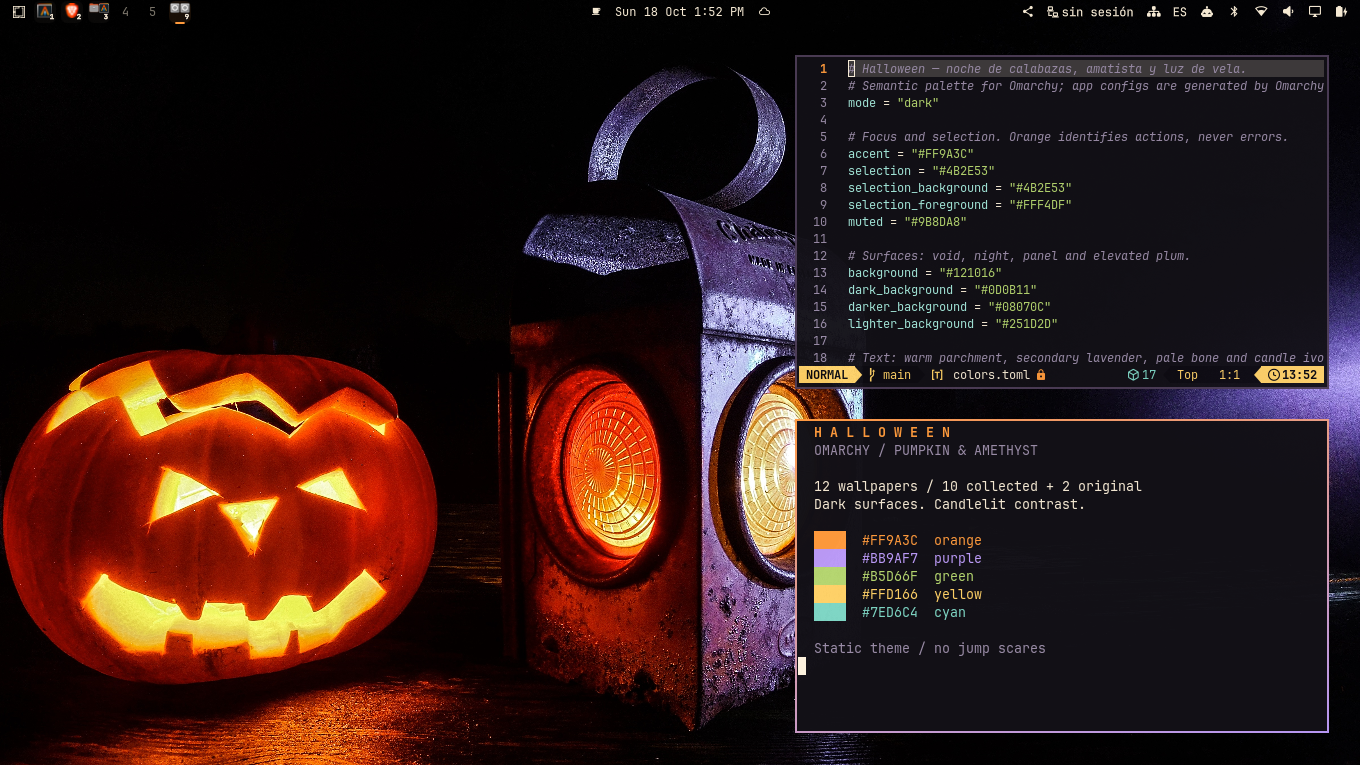
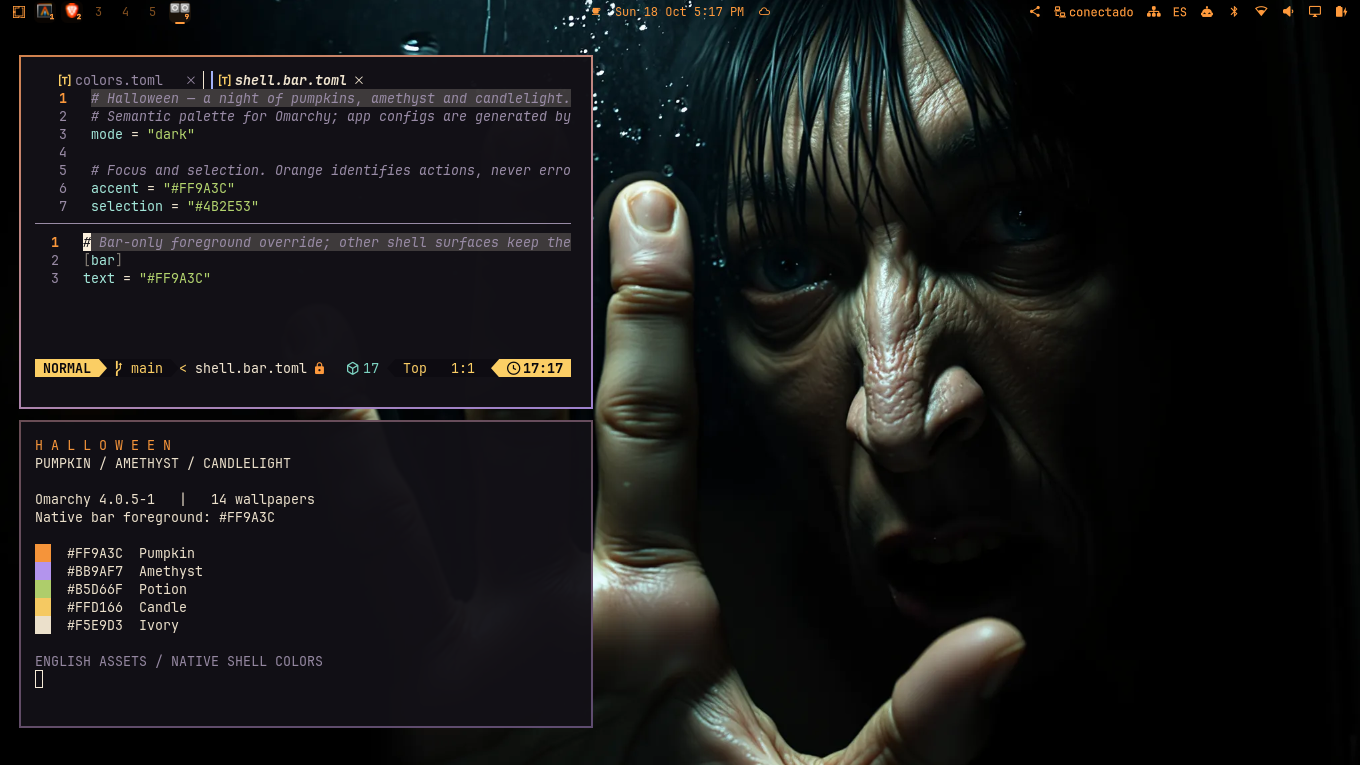
Refresh desktop previews with the orange bar and new horror wallpaper

diff --git a/README.md b/README.md
@@ -2,9 +2,9 @@
 
 A dark Halloween theme: pumpkin orange, amethyst, ivory and potion green on near-black surfaces. **14 wallpapers: 10 downloaded images with redistributable licenses, 2 original 4K vector illustrations and 2 AI-generated, photographic-style horror images at their native 2048 × 1152 resolution.**
 
-![Halloween in a real Omarchy session: terminal, Neovim and Pumpkin and Lantern wallpaper](preview.png)
+![Updated Halloween desktop: orange bar, Foot, Neovim and Don't Look at the Glass wallpaper](preview.png)
 
-An original screenshot from the initial static release, preserved without compositing or private data; its terminal shows that release's original twelve-wallpaper count. [Second screenshot featuring the original manor artwork](previews/desktop-mansion.png) · [Catalog WebP, 1200 × 675](previews/halloween.webp).
+Updated real desktop capture with the **pumpkin-orange transparent bar**, **14-wallpaper collection** and **Don't Look at the Glass** background. The terminal and Neovim are real application windows, not a montage. The wallpaper is fictional AI-generated artwork, not a photograph of a real person. [Earlier screenshot with Raven Manor](previews/desktop-mansion.png) · [Matching catalog WebP, 1200 × 675](previews/halloween.webp).
 
 ## Design and colors
 
@@ -198,7 +198,7 @@ According to the site's [“Adding your theme” instructions](https://github.co
 - That screenshot converted to WebP at `assets/themes/halloween.webp`, targeting **1200 × 675** and approximately **under 100 KB**, without upscaling a small screenshot.
 - A `<figure class="themes__theme">` block in **`themes/index.html`**, in alphabetical order. Both image and title must link to `https://github.com/PuroDelphi/omarchy-theme-halloween`.
 
-The site generates its data from that HTML: do not edit `src/data/themes.json` as the submission source. A PR without a screenshot cannot be merged. `previews/halloween.webp` is the real screenshot prepared for this submission: **1200 × 675, 91,640 bytes**. The separate artistic preview must not be confused with the screenshot.
+The site generates its data from that HTML: do not edit `src/data/themes.json` as the submission source. A PR without a screenshot cannot be merged. `previews/halloween.webp` is the refreshed real screenshot prepared for this submission: **1200 × 675, quality 80, 50,808 bytes**. The separate artistic preview must not be confused with the screenshot.
 
 ### Marketplace: a separate registration route
 
@@ -227,7 +227,7 @@ Reference environment: **Omarchy 4.0.5-1**, as reported by the installed package
 - During the initial installation: **19 configurations** generated by the installed templates, without unresolved variables; JSON/TOML outputs parsed successfully.
 - `foot --check-config` on its generated configuration: exit **0**.
 - Visual review of the two vector illustrations, the two AI-generated horror images and the **fourteen-wallpaper** contact sheet.
-- Installation from the public URL and actual application in Hyprland: **Theme Halloween**, with **Pumpkin and Lantern** active; `hyprctl configerrors` reported no errors.
+- Installation from the public URL and actual application in Hyprland: **Theme Halloween**; `hyprctl configerrors` reported no errors. The refreshed primary screenshot shows **Don't Look at the Glass**, the orange transparent bar, Neovim editing the native bar override, and a Foot terminal displaying the installed package version, fourteen-wallpaper count and real palette values.
 - Real visual inspection of **Foot, Neovim, borders and wallpaper**, with two desktop screenshots. Not all other applications have been visually tested.
 - Screenshots came from the native **1366 × 768** monitor, minimally cropped by 3 pixels on each side and 1/2 pixels at the top/bottom to **1360 × 765**, without upscaling or distortion. The WebP was reduced to **1200 × 675**.
 - English filename migration, local Markdown link targets and AI-image provenance hashes: checked. The translated renderer generated scene 11 successfully at 1920 × 1080.

diff --git a/SOURCES.md b/SOURCES.md
@@ -41,7 +41,7 @@ Files **11 and 12** are generated with [`tools/render-wallpapers.py`](tools/rend
 
 - **`previews/theme-art-preview.*` and `previews/originals-contact-sheet.*`**: only vector illustrations **11 and 12** and the palette; CC0 as described in [`ARTWORK-LICENSE`](ARTWORK-LICENSE). They are labeled as artistic previews, not real screenshots.
 - **`previews/contact-sheet.png`**: a collection of all fourteen wallpapers, with reduced thumbnails and identifying labels. Each image retains **its work's license stated above**; labels and layout do not relicense the photographs. This page provides attribution, links and a statement of those presentation changes. Retain these notices when redistributing the contact sheet.
-- **`preview.png` and `previews/halloween.webp`**: a real screenshot with a terminal, Neovim and wallpaper **04 — Pumpkin and Lantern**, by CC0-Photographers / PxHere, [source 774668](https://pxhere.com/en/photo/774668), [CC0 1.0](https://creativecommons.org/publicdomain/zero/1.0/). The screenshot was cropped from 1366 × 768 to 1360 × 765 to obtain 16:9 without distortion; the WebP version was reduced to 1200 × 675. No windows or effects were composited into it.
+- **`preview.png` and `previews/halloween.webp`**: a refreshed real Omarchy **4.0.5-1** desktop capture with the orange transparent bar, Foot, Neovim and wallpaper **14 — Don't Look at the Glass**. The depicted wallpaper is fictional AI-generated artwork, not a real photograph; [generation provenance](sources/13-14-generated.json) and [qualified CC0 dedication](ARTWORK-LICENSE) apply to the project's contribution to it. The screenshot contribution is MIT; depicted software retains its own rights. The capture was cropped from **1366 × 768 to 1360 × 765** without distortion or upscaling; the WebP was reduced to **1200 × 675**, quality **80**, **50,808 bytes**. No windows or effects were composited. The scene was checked for private windows, usernames, notifications and the mouse pointer before publication.
 - **`previews/desktop-mansion.png`**: a second real screenshot with original wallpaper **12 — Raven Manor**, CC0. The same minimal 16:9 crop was applied. The screenshot contribution is distributed under MIT; depicted software and wallpapers retain their rights. See `LICENSE`.
 - **`previews/horror-contact-sheet.jpg`**: a presentation of AI-generated images 13 and 14, reduced for comparison; the project contribution has the same dedication described in `ARTWORK-LICENSE`. It is not a desktop screenshot or real photograph.
 
